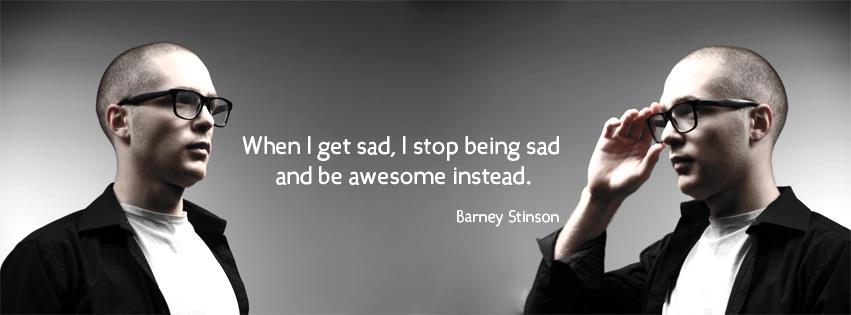
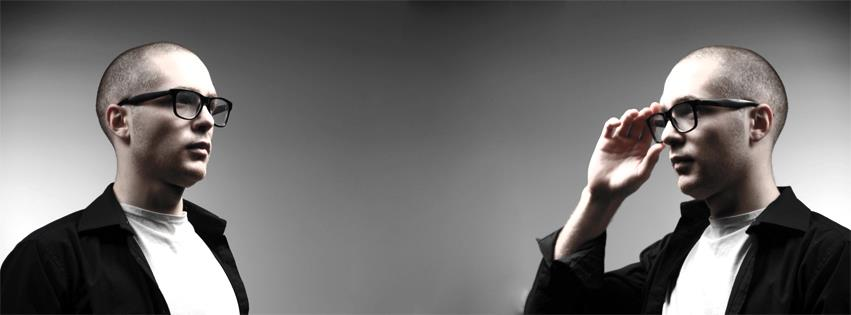
css and img change

Changed region(s): [[0.275, 0.4286, 0.6722, 0.5143], [0.3055, 0.5429, 0.6416, 0.6], [0.5194, 0.6571, 0.6722, 0.7143]]

diff --git a/w10d2main.html b/w10d2main.html
@@ -9,9 +9,15 @@
     <link rel="stylesheet" href="w10d2style.css">
 </head>
 <body>
+<!--<img src="img/header.jpg" class="headerimg" height="315" width="851"/>-->
+<img src="img/header.jpg" class="headerimg">
 <div class="container">
-    <div class="header">
-
+    <div class="header d-flex">
+        <div class="intro">
+            <img src="img/ktotam.jpg" class="introimg"/>
+<h1>Dom</h1>
+        </div>
+        <div></div>
     </div>
     <div class="content">
 

diff --git a/w10d2style.css b/w10d2style.css
@@ -1,0 +1,22 @@
+.headerimg {
+    display: block;
+    margin-left:auto;
+    margin-right: auto;
+    width:80%;
+    border-radius: 15px;
+    /*z-index: -1;*/
+    /*object-fit: cover;*/
+    margin-top: -50px;
+    /*position: absolute;*/
+}
+.introimg {
+    border:2px solid white;
+    border-radius: 15px;
+    width:40%;
+}
+.intro {
+    /*z-index: 1;*/
+    margin-top:-100px;
+    margin-left: 250px;
+    /*position: absolute;*/
+}
